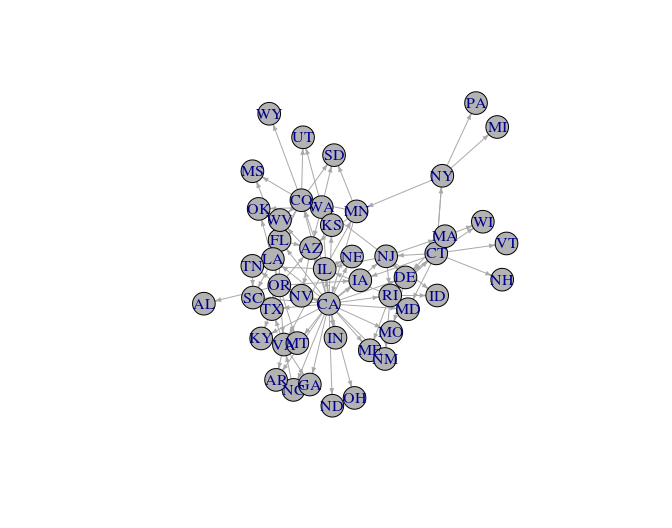
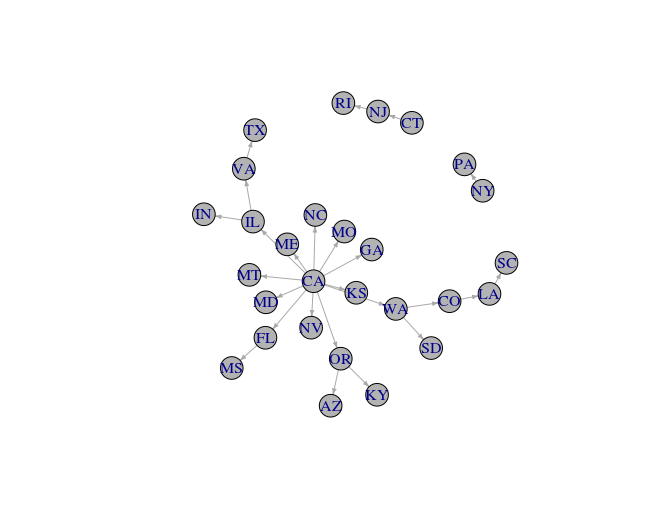
updates to vignette

diff --git a/README.md b/README.md
@@ -56,29 +56,29 @@ print(result)
 </thead>
 <tbody>
 <tr class="odd">
-<td align="center">r</td>
-<td align="center">l</td>
-<td align="center">197.2</td>
-</tr>
-<tr class="even">
-<td align="center">k</td>
-<td align="center">o</td>
-<td align="center">192.3</td>
-</tr>
-<tr class="odd">
-<td align="center">k</td>
-<td align="center">a</td>
-<td align="center">185.4</td>
-</tr>
-<tr class="even">
-<td align="center">t</td>
-<td align="center">k</td>
-<td align="center">183.4</td>
-</tr>
-<tr class="odd">
-<td align="center">r</td>
+<td align="center">e</td>
 <td align="center">s</td>
-<td align="center">176.5</td>
+<td align="center">231</td>
+</tr>
+<tr class="even">
+<td align="center">p</td>
+<td align="center">j</td>
+<td align="center">230</td>
+</tr>
+<tr class="odd">
+<td align="center">s</td>
+<td align="center">k</td>
+<td align="center">229.1</td>
+</tr>
+<tr class="even">
+<td align="center">i</td>
+<td align="center">c</td>
+<td align="center">209.9</td>
+</tr>
+<tr class="odd">
+<td align="center">f</td>
+<td align="center">p</td>
+<td align="center">207.2</td>
 </tr>
 </tbody>
 </table>
@@ -349,11 +349,11 @@ plot(results, type = "improvement")
 
 <img src="readme_files/figure-markdown_github/unnamed-chunk-18-1.png" style="display: block; margin: auto;" />
 
-In the plot we can see a kink in the plot at about edge \#100. Let's re-run `netinf` to get the final network.
+In the plot we can see a kink in the plot at about edge \#25. Let's re-run `netinf` to get the final network.
 
 ``` r
 diffusion_network <- netinf(policy_cascades, trans_mod = "exponential", 
-                            n_edges = 100, lambda = 1)
+                            n_edges = 25, lambda = 1)
 ```
 
 In order to produce a quick visualization of the resulting diffusion network we can use the plot method again, this time with `type = "network"`. Note that in order to use this functionality the igraph package has to be installed.
